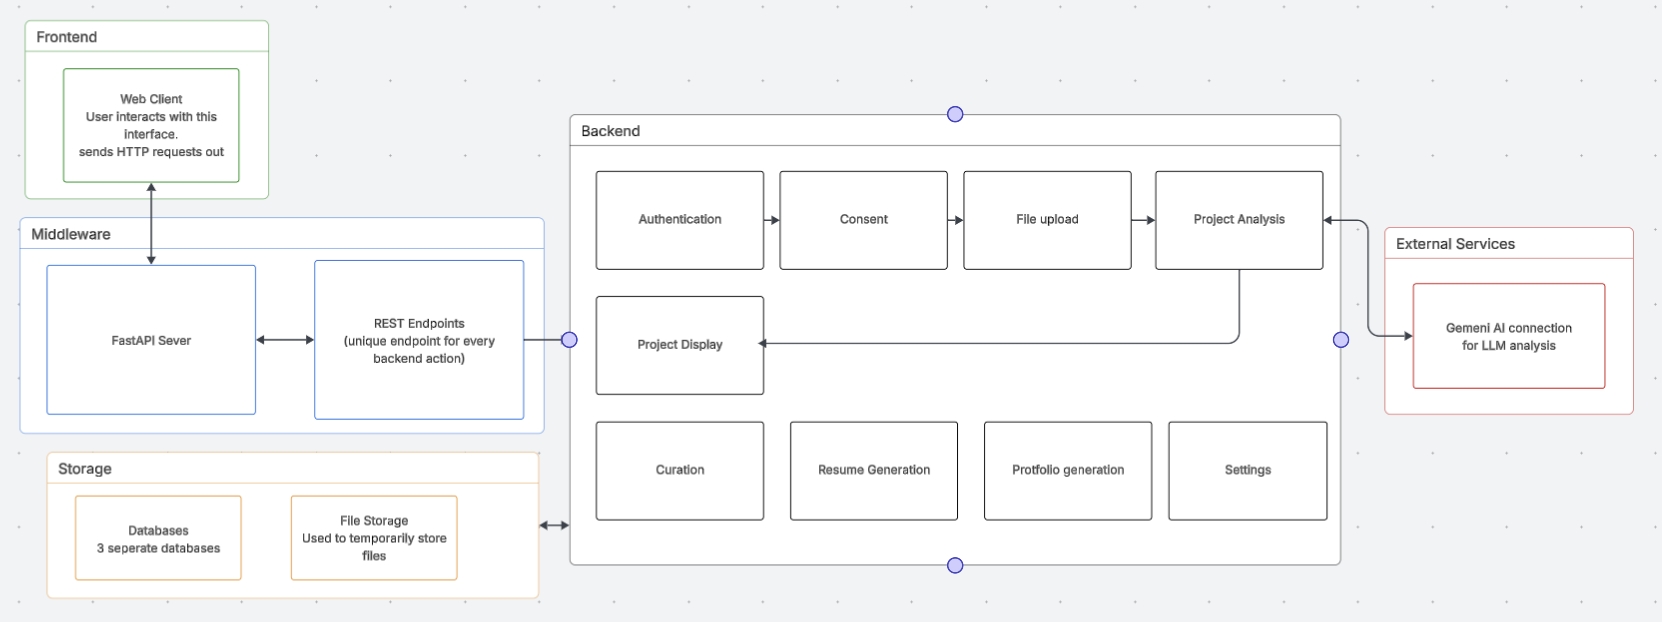
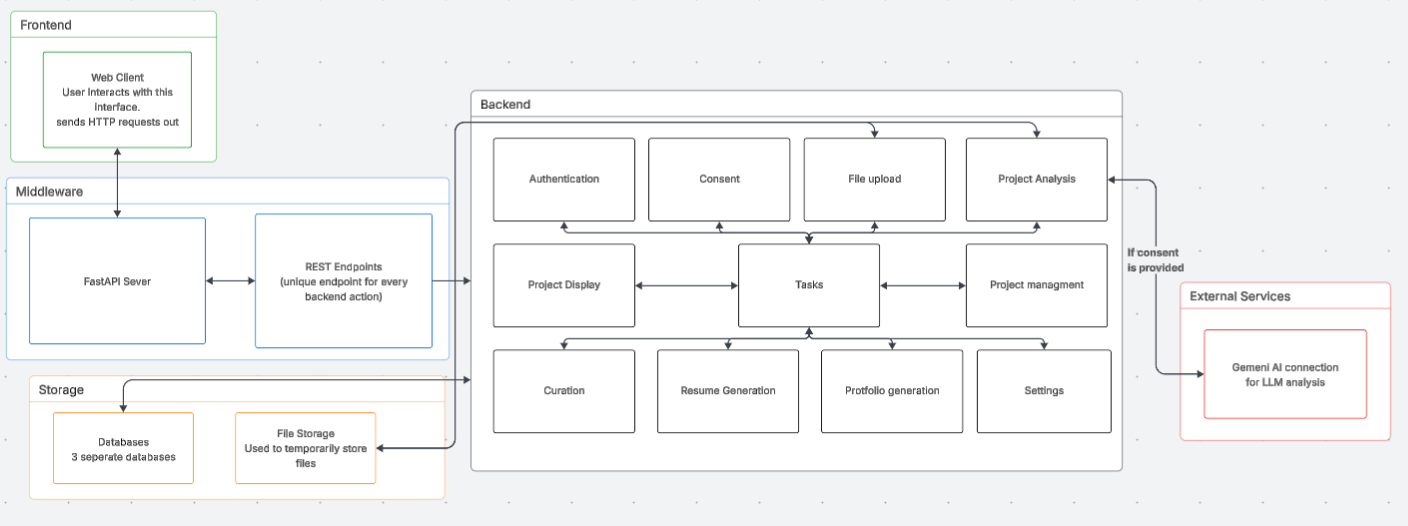
changed the architecture diagram and add a md file with all teh endpoints in the system

diff --git a/docs/API_ENDPOINTS.md b/docs/API_ENDPOINTS.md
@@ -1,0 +1,116 @@
+# API Endpoints Catalog
+
+This document lists backend REST endpoints defined in:
+
+- `src/backend/api/*.py` (modular routers)
+- `src/backend/api_server.py` (direct app routes)
+
+---
+
+## Health
+
+| Method | Endpoint |
+|---|---|
+| GET | `/` |
+| GET | `/api/health` |
+
+## Authentication
+
+| Method | Endpoint |
+|---|---|
+| POST | `/api/auth/signup` |
+| POST | `/api/auth/login` |
+| POST | `/api/auth/logout` |
+
+## Consent and Privacy
+
+| Method | Endpoint |
+|---|---|
+| GET | `/api/user/consent` |
+| POST | `/api/user/consent` |
+| POST | `/api/privacy-consent` |
+
+## Portfolios
+
+| Method | Endpoint |
+|---|---|
+| GET | `/api/portfolios` |
+| GET | `/api/portfolios/{portfolio_id}` |
+| GET | `/api/portfolio/{portfolio_id}` |
+| POST | `/api/portfolios/upload` |
+| POST | `/api/portfolios/{portfolio_id}/add` |
+| POST | `/api/portfolio/generate` |
+| DELETE | `/api/portfolios/{portfolio_id}` |
+
+## Projects and Skills
+
+| Method | Endpoint |
+|---|---|
+| GET | `/api/projects` |
+| GET | `/api/projects/{project_id}` |
+| POST | `/api/projects/upload` |
+| GET | `/api/skills` |
+| POST | `/api/projects/{project_id}/thumbnail` |
+| GET | `/api/projects/{project_id}/thumbnail` |
+| DELETE | `/api/projects/{project_id}/thumbnail` |
+| GET | `/api/projects/{project_id}/resume-items` |
+| GET | `/api/projects/{project_id}/portfolio` |
+| DELETE | `/api/projects/{project_id}` |
+| DELETE | `/api/projects` |
+
+## Resume
+
+| Method | Endpoint |
+|---|---|
+| GET | `/api/resume/personal-info` |
+| PUT | `/api/resume/personal-info` |
+| DELETE | `/api/resume/personal-info` |
+| POST | `/api/resume/generate` |
+| GET | `/api/resume/{resume_id}` |
+| POST | `/api/resume/{resume_id}/edit` |
+| POST | `/api/resumes` |
+| GET | `/api/resumes` |
+| GET | `/api/resumes/{resume_id}` |
+| PATCH | `/api/resumes/{resume_id}` |
+| POST | `/api/resumes/{resume_id}/items` |
+
+## Tasks and Admin
+
+| Method | Endpoint |
+|---|---|
+| GET | `/api/tasks` |
+| GET | `/api/tasks/{task_id}` |
+| GET | `/api/tasks/{task_id}/status` |
+| POST | `/api/admin/cleanup` |
+
+## Analysis Pipeline
+
+| Method | Endpoint |
+|---|---|
+| POST | `/api/analysis/portfolios/{portfolio_id}/reanalyze` |
+| POST | `/api/analysis/quick` |
+| POST | `/api/analysis/portfolios/upload` |
+| GET | `/api/analysis/status` |
+| POST | `/api/analysis/portfolios/{portfolio_id}/start` |
+| POST | `/api/analysis/start` |
+| POST | `/api/analysis/uploads/{upload_id}/start` |
+| POST | `/api/analysis/uploads/{upload_id}/cleanup` |
+
+## Curation
+
+| Method | Endpoint |
+|---|---|
+| GET | `/api/curation/settings` |
+| GET | `/api/curation/projects` |
+| GET | `/api/curation/showcase` |
+| GET | `/api/curation/skills` |
+| GET | `/api/curation/attributes` |
+| POST | `/api/curation/chronology` |
+| POST | `/api/curation/showcase` |
+| POST | `/api/curation/attributes` |
+| POST | `/api/curation/order` |
+| POST | `/api/curation/skills` |
+
+---
+
+
